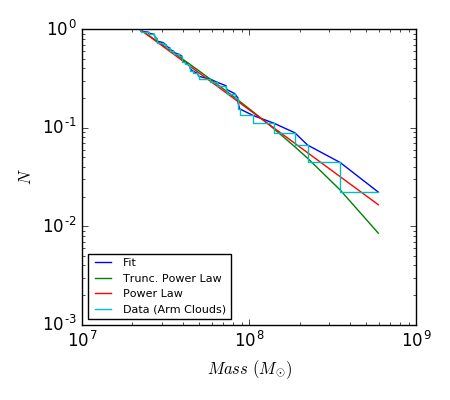
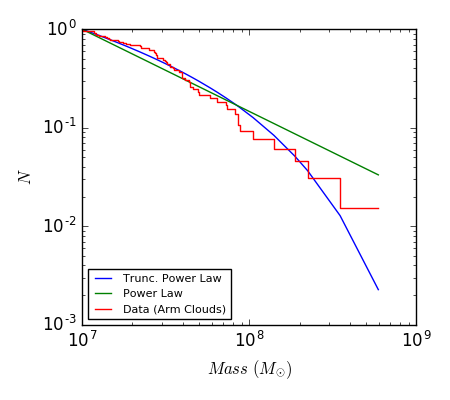
xmin set to 1E7

diff --git a/gmc_property_subplots.py b/gmc_property_subplots.py
@@ -35,7 +35,9 @@ M_den = mytable['MASS_EXTRAP']/(np.pi*np.power(mytable['RADRMS_EXTRAP_DECONV'],2
 
 mygalaxy = Galaxy("M100")
 cpropstable = Table.read('m100.co10.kkms_props_cprops_subsets_improved.fits')
+x, y = mygalaxy.radius(ra = mytable['XPOS'], dec = mytable['YPOS'], returnXY = True)
 rgal=mygalaxy.radius(ra = cpropstable['XPOS'], dec = cpropstable['YPOS'])
+
 
 #indexes for low R_gal group 
 index = np.where(rgal.value < 1100)	
@@ -54,12 +56,16 @@ outliers = np.where(mytable['Outliers'] == True)
 #Virial mass vs.luminous mass plot
 figure = plt.figure(figsize=(4.5,4)) #figure size in inches
 plt.plot(one,one,linestyle = '-', c = 'k')
-plt.loglog(mytable['MASS_EXTRAP'][centre_in],mytable['VIRMASS_EXTRAP_DECONV'][centre_in],marker='v',c='b',linestyle='None')
-plt.loglog(mytable['MASS_EXTRAP'][arm_in],mytable['VIRMASS_EXTRAP_DECONV'][arm_in],marker='s',c='r',linestyle='None')
+plt.loglog(mytable['MASS_EXTRAP'][arm_in],mytable['VIRMASS_EXTRAP_DECONV'][arm_in],marker='d',c='m',linestyle='None')
 plt.loglog(mytable['MASS_EXTRAP'][interarm_in],mytable['VIRMASS_EXTRAP_DECONV'][interarm_in],marker='o',c='g',linestyle='None')
 plt.loglog(mytable['MASS_EXTRAP'][outliers],mytable['VIRMASS_EXTRAP_DECONV'][outliers],marker='+',c='w',linestyle='None')
+plt.loglog(mytable['MASS_EXTRAP'][centre_in],mytable['VIRMASS_EXTRAP_DECONV'][centre_in],marker='v',c='b',linestyle='None')
+
 plt.xlabel(r'$M_{\mathrm{lum}}\ (M_{\odot})$') 
 plt.ylabel(r'$M_{\mathrm{vir}}\ (M_{\odot})$')
+plt.ylim(4E5, 3E9)
+plt.xlim(1E6,1E9)
+#plt.axes().set_aspect('equal', 'datalim')
 plt.tight_layout() 	
 plt.savefig('MlumMvir_matplotlib.png')
 
@@ -68,22 +74,26 @@ figure = plt.figure(figsize=(4.5,4)) #figure size in inches
 plt.plot(R,sigmav,linestyle = '-', c = 'k')
 plt.ylabel(r'$\sigma\ (km\ s^{-1})$') 
 plt.xlabel(r'$R\ (pc)$')
-plt.loglog(mytable['RADRMS_EXTRAP_DECONV'][centre_in],mytable['VRMS_EXTRAP_DECONV'][centre_in],marker='v',c='b',linestyle='None')
-plt.loglog(mytable['RADRMS_EXTRAP_DECONV'][arm_in],mytable['VRMS_EXTRAP_DECONV'][arm_in],marker='s',c='r',linestyle='None')
+plt.loglog(mytable['RADRMS_EXTRAP_DECONV'][arm_in],mytable['VRMS_EXTRAP_DECONV'][arm_in],marker='d',c='m',linestyle='None')
 plt.loglog(mytable['RADRMS_EXTRAP_DECONV'][interarm_in],mytable['VRMS_EXTRAP_DECONV'][interarm_in],marker='o',c='g',linestyle='None')
-plt.loglog(mytable['RADRMS_EXTRAP_DECONV'][outliers],mytable['VRMS_EXTRAP_DECONV'][outliers],marker='+',c='m',linestyle='None')
+plt.loglog(mytable['RADRMS_EXTRAP_DECONV'][centre_in],mytable['VRMS_EXTRAP_DECONV'][centre_in],marker='v',c='b',linestyle='None')
+#plt.loglog(mytable['RADRMS_EXTRAP_DECONV'][outliers],mytable['VRMS_EXTRAP_DECONV'][outliers],marker='+',c='m',linestyle='None')
+plt.ylim(1, 1E2)
+plt.xlim(35,1E3)
 plt.tight_layout() 	
 plt.savefig('LwRad_matplotlib.png')
 
 #Luminous mass vs. radius plot
 figure = plt.figure(figsize=(4.5,4)) #figure size in inches
 plt.plot(R,M_lum,linestyle = '-', c = 'k')
-plt.loglog(mytable['RADRMS_EXTRAP_DECONV'][centre_in],mytable['MASS_EXTRAP'][centre_in],marker='v',c='b',linestyle='None')
-plt.loglog(mytable['RADRMS_EXTRAP_DECONV'][arm_in],mytable['MASS_EXTRAP'][arm_in],marker='s',c='r',linestyle='None')
+plt.loglog(mytable['RADRMS_EXTRAP_DECONV'][arm_in],mytable['MASS_EXTRAP'][arm_in],marker='d',c='m',linestyle='None')
 plt.loglog(mytable['RADRMS_EXTRAP_DECONV'][interarm_in],mytable['MASS_EXTRAP'][interarm_in],marker='o',c='g',linestyle='None')
-plt.loglog(mytable['RADRMS_EXTRAP_DECONV'][outliers],mytable['MASS_EXTRAP'][outliers],marker='+',c='m',linestyle='None')
+plt.loglog(mytable['RADRMS_EXTRAP_DECONV'][centre_in],mytable['MASS_EXTRAP'][centre_in],marker='v',c='b',linestyle='None')
+#plt.loglog(mytable['RADRMS_EXTRAP_DECONV'][outliers],mytable['MASS_EXTRAP'][outliers],marker='+',c='m',linestyle='None')
 plt.xlabel(r'$R\ (pc)$') 
 plt.ylabel(r'$M_{\mathrm{lum}}\ (M_{\odot})$')
+plt.ylim(1E6, 1E9)
+plt.xlim(40,1E3)
 plt.tight_layout() 	
 plt.savefig('MlumRad_matplotlib.png')
 
@@ -91,10 +101,12 @@ plt.savefig('MlumRad_matplotlib.png')
 figure = plt.figure(figsize=(4.5,4))
 plt.xlabel('$M/\pi R^2\ ((M_{\odot})/pc^2)$')
 plt.ylabel('$\sigma_0$')
-plt.loglog(M_den[centre_in],sigma0[centre_in],marker='v',c='b',linestyle='None')
-plt.loglog(M_den[arm_in],sigma0[arm_in],marker='s',c='r',linestyle='None')
+plt.loglog(M_den[arm_in],sigma0[arm_in],marker='d',c='m',linestyle='None')
 plt.loglog(M_den[interarm_in],sigma0[interarm_in],marker='o',c='g',linestyle='None')
+plt.loglog(M_den[centre_in],sigma0[centre_in],marker='v',c='b',linestyle='None')
 plt.loglog(M_den[outliers],sigma0[outliers],marker='+',c='m',linestyle='None')
+plt.ylim(3E-2, 6)
+plt.xlim(1E1,1E4)
 plt.tight_layout() 	
 plt.savefig('Sigma0_Mden_matplotlib.png')
 
@@ -102,25 +114,27 @@ plt.savefig('Sigma0_Mden_matplotlib.png')
 figure = plt.figure(figsize=(4.5,4))
 plt.xlabel('$R_{gal} (pc)$')
 plt.ylabel('$\sigma_0$')
-plt.loglog(rgal.to(u.pc)[centre_in],sigma0[centre_in],marker='v',c='b',linestyle='None')
-plt.loglog(rgal.to(u.pc)[arm_in],sigma0[arm_in],marker='s',c='r',linestyle='None')
+plt.loglog(rgal.to(u.pc)[arm_in],sigma0[arm_in],marker='d',c='m',linestyle='None')
 plt.loglog(rgal.to(u.pc)[interarm_in],sigma0[interarm_in],marker='o',c='g',linestyle='None')
 plt.loglog(rgal.to(u.pc)[outliers],sigma0[outliers],marker='+',c='w',linestyle='None')
+plt.loglog(rgal.to(u.pc)[centre_in],sigma0[centre_in],marker='v',c='b',linestyle='None')
+plt.ylim(0.05, 5)
+plt.xlim(1E2,5E4)
+plt.axes().set_aspect('equal', 'datalim')
 plt.tight_layout() 	
 plt.savefig('sigma0_Rgal_matplotlib.png')
 
 #X,Y position
 figure = plt.figure(figsize=(4.5,4)) #figure size in inches
-plt.xlabel('X') 
-plt.ylabel('Y')
-plt.plot(mytable['XPOS'][centre_in],mytable['YPOS'][centre_in],marker='v',c='b',linestyle='None')
-plt.plot(mytable['XPOS'][arm_in],mytable['YPOS'][arm_in],marker='s',c='r',linestyle='None')
-plt.plot(mytable['XPOS'][interarm_in],mytable['YPOS'][interarm_in],marker='o',c='g',linestyle='None')
-plt.plot(mytable['XPOS'][outliers],mytable['YPOS'][outliers],marker='+',c='w',linestyle='None')
+plt.xlabel('X position (kpc)') 
+plt.ylabel('Y position (kpc)')
+plt.plot(x.to(u.kpc)[centre_in],y.to(u.kpc)[centre_in],marker='v',c='b',linestyle='None')
+plt.plot(x.to(u.kpc)[arm_in],y.to(u.kpc)[arm_in],marker='d',c='m',linestyle='None')
+plt.plot(x.to(u.kpc)[interarm_in],y.to(u.kpc)[interarm_in],marker='o',c='g',linestyle='None')
+plt.plot(x.to(u.kpc)[outliers],y.to(u.kpc)[outliers],marker='+',c='w',linestyle='None')
 plt.tight_layout() 	
+plt.axes().set_aspect('equal', 'datalim')
 plt.savefig('xypos_matplotlib.png')
-
-
 
 
 
@@ -129,8 +143,7 @@ plt.savefig('xypos_matplotlib.png')
 #Mass Distribution for All Clouds
 figure = plt.figure(figsize=(4.5,4)) 
 #Fit data 
-myfit = powerlaw.Fit(mass)
-myfit.plot_ccdf(label='Fit')
+myfit = powerlaw.Fit(mass,xmin = 1E7)
 R, p = myfit.distribution_compare('power_law','truncated_power_law')
 #Plot
 myfit.truncated_power_law.plot_ccdf(label='Trunc. Power Law')
@@ -143,14 +156,14 @@ plt.tight_layout()
 plt.savefig('powerlaw.png')
 
 
+
 #Mass Distribution for Nuclear Clouds
 figure = plt.figure(figsize=(4.5,4)) 
 #Keep only clouds with rgal <1kpc
 mass_nuc = mass[index]
-myfit_nuc = powerlaw.Fit(mass_nuc,xmin = myfit.xmin)
+myfit_nuc = powerlaw.Fit(mass_nuc, xmin = 1E7)
 R_nuc, p_nuc = myfit_nuc.distribution_compare('power_law','truncated_power_law')
 #Plot
-myfit_nuc.plot_ccdf(label='Fit')
 myfit_nuc.truncated_power_law.plot_ccdf(label='Trunc. Power Law')
 myfit_nuc.power_law.plot_ccdf(label='Power Law')
 myfit_nuc.plot_ccdf(drawstyle='steps',label='Data (Nuclear Clouds)')
@@ -166,10 +179,9 @@ figure = plt.figure(figsize=(4.5,4))
 #Ignore all clouds with rgal >1kpc
 mass_disk = np.delete(mass,index)
 #Fit Data
-myfit_disk = powerlaw.Fit(mass_disk,xmin = myfit.xmin)
+myfit_disk = powerlaw.Fit(mass_disk,xmin = 1E7)
 R_disk, p_disk = myfit_disk.distribution_compare('power_law','truncated_power_law')
 #Plot
-myfit_disk.plot_ccdf(label='Fit')
 myfit_disk.truncated_power_law.plot_ccdf(label='Trunc. Power Law')
 myfit_disk.power_law.plot_ccdf(label='Power Law')
 myfit_disk.plot_ccdf(drawstyle='steps',label='Data (Disk Clouds)')
@@ -183,10 +195,9 @@ plt.savefig('powerlaw_disk.png')
 figure = plt.figure(figsize=(4.5,4)) 
 mass_arm = mass[arm_in]
 #Fit Data
-myfit_arm = powerlaw.Fit(mass_arm,xmin = myfit.xmin)
+myfit_arm = powerlaw.Fit(mass_arm,xmin = 1E7)
 R_arm, p_arm = myfit_arm.distribution_compare('power_law','truncated_power_law')
 #Plot
-myfit_arm.plot_ccdf(label='Fit')
 myfit_arm.truncated_power_law.plot_ccdf(label='Trunc. Power Law')
 myfit_arm.power_law.plot_ccdf(label='Power Law')
 myfit_arm.plot_ccdf(drawstyle='steps',label='Data (Arm Clouds)')
@@ -202,10 +213,9 @@ test = np.hstack([index,arm_in])
 mass_interarm = np.delete(mass,test)
 #mass_interarm = np.delete(mass_interarm,index)
 #Fit Data
-myfit_interarm = powerlaw.Fit(mass_interarm,xmin = myfit.xmin)
+myfit_interarm = powerlaw.Fit(mass_interarm,xmin = 1E7)
 R_interarm, p_interarm = myfit_interarm.distribution_compare('power_law','truncated_power_law')
 #Plot
-myfit_interarm.plot_ccdf(label='Fit')
 myfit_interarm.truncated_power_law.plot_ccdf(label='Trunc. Power Law')
 myfit_interarm.power_law.plot_ccdf(label='Power Law')
 myfit_interarm.plot_ccdf(drawstyle='steps',label='Data (Interarm Clouds)')
@@ -215,8 +225,25 @@ plt.xlabel(r'$Mass\ (M_{\odot})$')
 plt.tight_layout() 	
 plt.savefig('powerlaw_interarm.png')
 
+#plot on same window
+figure = plt.figure(figsize=(4.5,4)) 
+myfit_arm.truncated_power_law.plot_ccdf(label='Trunc. Power Law (Arm)')
+myfit_arm.power_law.plot_ccdf(label='Power Law (Arm)')
+myfit_arm.plot_ccdf(drawstyle='steps',label='Data (Arm)')
+myfit_interarm.truncated_power_law.plot_ccdf(label='Trunc. Power Law (Interarm)')
+myfit_interarm.power_law.plot_ccdf(label='Power Law (Interarm)')
+myfit_interarm.plot_ccdf(drawstyle='steps',label='Data (Interarm)')
+
+plt.legend(loc ='lower left',prop={'size':7})
+plt.ylabel(r'$N$')
+plt.xlabel(r'$Mass\ (M_{\odot})$')
+plt.tight_layout() 	
+plt.savefig('powerlaw_arm_interarm.png')
 
 
 #print out table of alpha, R and p values for each mass distribution
-tb = {'Clouds': ['All','Nuclear','Disk','Arm','Interarm'],'Alpha': [myfit.alpha,myfit_nuc.alpha,myfit_disk.alpha,myfit_arm.alpha,myfit_interarm.alpha],'R':[R,R_nuc,R_disk,R_arm,R_interarm], 'p':[p,p_nuc,p_disk,p_arm,p_interarm], 'p':[p,p_nuc,p_disk,p_arm,p_interarm], 'p':[p,p_nuc,p_disk,p_arm,p_interarm], 'x_max':[myfit.xmax,myfit_nuc.xmax,myfit_disk.xmax,myfit_arm.xmax,myfit_interarm.xmax]}
-print Table(tb,names =('Clouds','Alpha','R','p','x_max'))
+tb = {'Clouds': ['All','Nuclear','Disk','Arm','Interarm'],'alpha': [myfit.alpha,myfit_nuc.alpha,myfit_disk.alpha,myfit_arm.alpha,myfit_interarm.alpha],'$\alpha$ (Truncated)': [myfit.truncated_power_law.alpha,myfit_nuc.truncated_power_law.alpha,myfit_disk.truncated_power_law.alpha,myfit_arm.truncated_power_law.alpha,myfit_interarm.truncated_power_law.alpha],'R':[R,R_nuc,R_disk,R_arm,R_interarm], 'p':[p,p_nuc,p_disk,p_arm,p_interarm], 'p':[p,p_nuc,p_disk,p_arm,p_interarm], 'p':[p,p_nuc,p_disk,p_arm,p_interarm], 'Cutoff Mass':[1/myfit.truncated_power_law.parameter2,1/myfit_nuc.truncated_power_law.parameter2,1/myfit_disk.truncated_power_law.parameter2,1/myfit_arm.truncated_power_law.parameter2,1/myfit_interarm.truncated_power_law.parameter2]}
+t = Table(tb,names =('Clouds','alpha','alpha (Truncated)','R','p','Cutoff Mass'))
+print t
+
+t.write('table.tex', format = 'latex')
